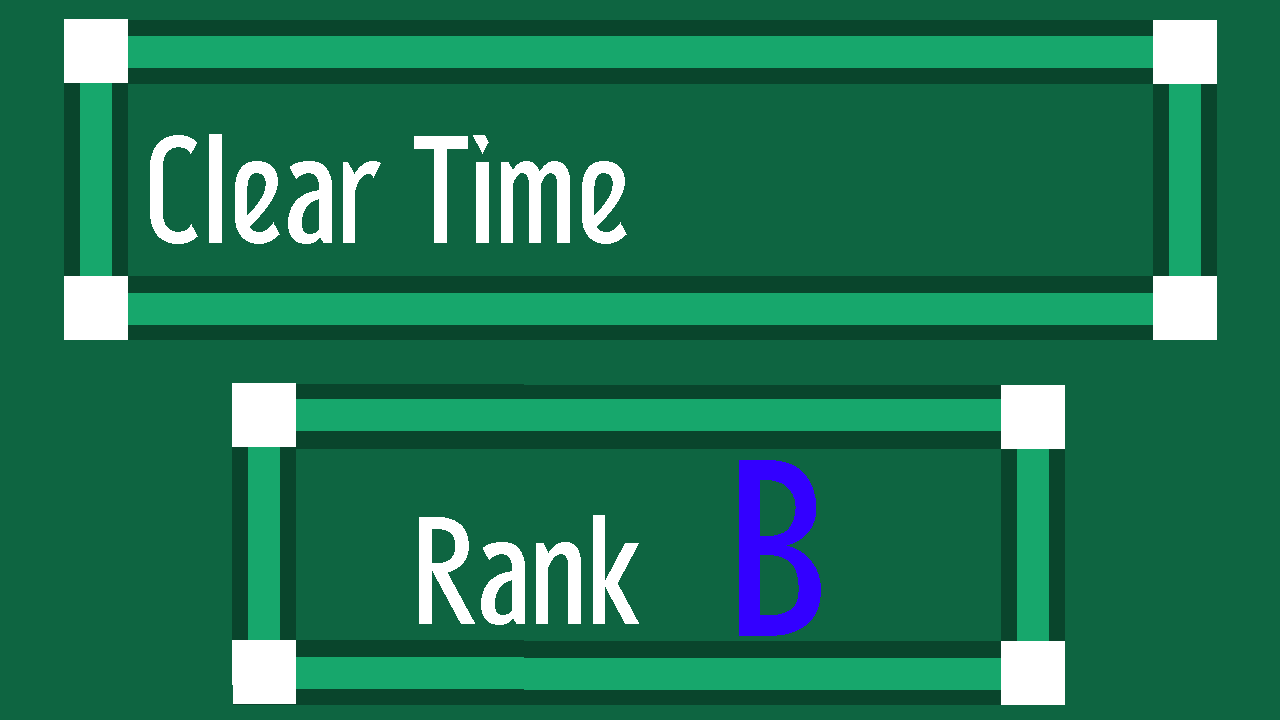
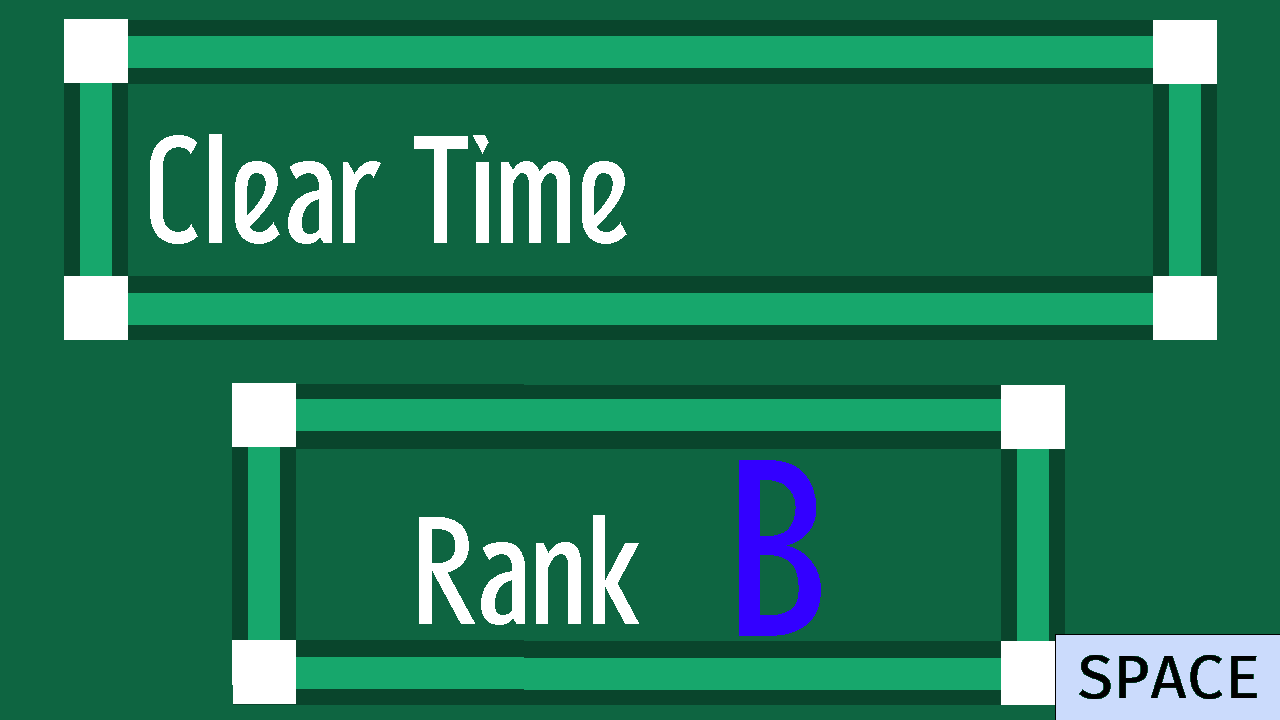
uiいじった

Changed region(s): [[0.8125, 0.8556, 1.0, 1.0]]

diff --git a/Scene/TitleScene.cpp b/Scene/TitleScene.cpp
@@ -28,7 +28,7 @@ void TitleScene::Update(Input* input, GamePad* gamePad, MouseInput* mouse)
 	sceneObj_->skydomeO_->Update();
 	controller_->camera_->Update();
 	gamePad->Update();
-	if (input->TriggerKey(DIK_RETURN) || gamePad->ButtonTrigger(X))
+	if (input->TriggerKey(DIK_SPACE) || gamePad->ButtonTrigger(X))
 	{
 		controller_->ChangeSceneNum(S_TUTO);
 	}

diff --git a/Scene/GameClearScene.cpp b/Scene/GameClearScene.cpp
@@ -121,7 +121,7 @@ void GameClearScene::Initialize()
 void GameClearScene::Update(Input* input, GamePad* gamePad, MouseInput* mouse)
 {
 	gamePad->Update();
-	if (input->TriggerKey(DIK_RETURN) || gamePad->ButtonTrigger(X))
+	if (input->TriggerKey(DIK_SPACE) || gamePad->ButtonTrigger(X))
 	{
 		controller_->ChangeSceneNum(S_TITLE);
 	}

diff --git a/Scene/GameTutoScene.cpp b/Scene/GameTutoScene.cpp
@@ -115,7 +115,7 @@ void GameTutoScene::Update(Input* input, GamePad* gamePad, MouseInput* mouse)
 	}
 
 
-	if (Sele1Timer >= 30) {
+	if (Sele1Timer >= 30 || Sele2Timer >= 30 || Sele3Timer >= 30 || Sele4Timer >= 30) {
 		controller_->ChangeSceneNum(S_PLAY);
 	}
 
